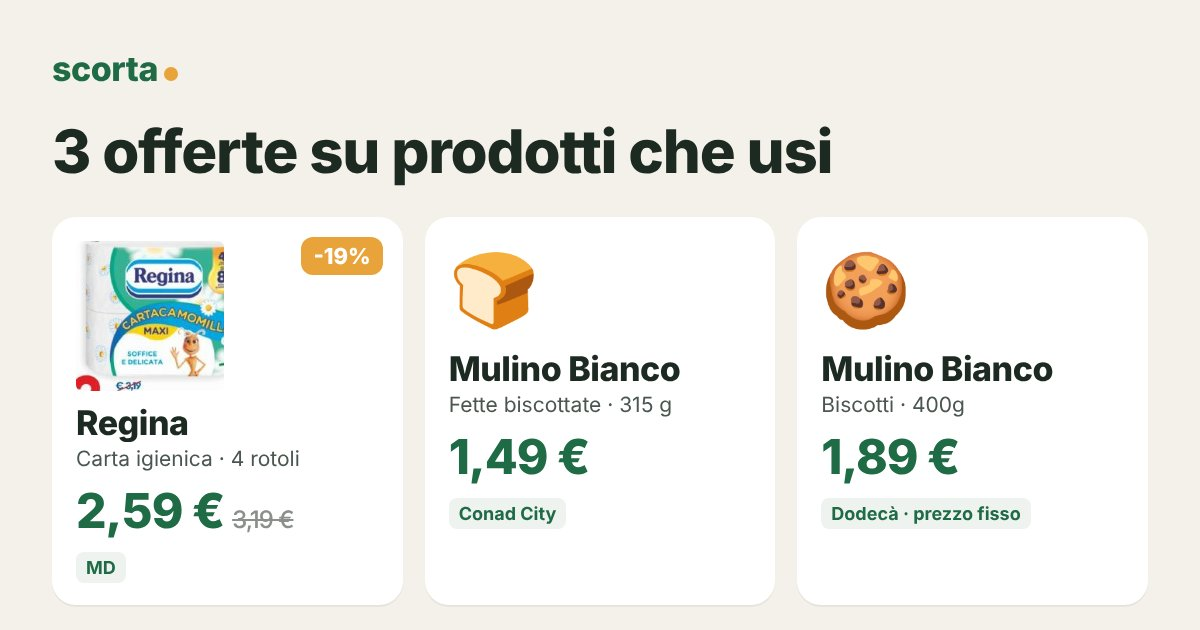
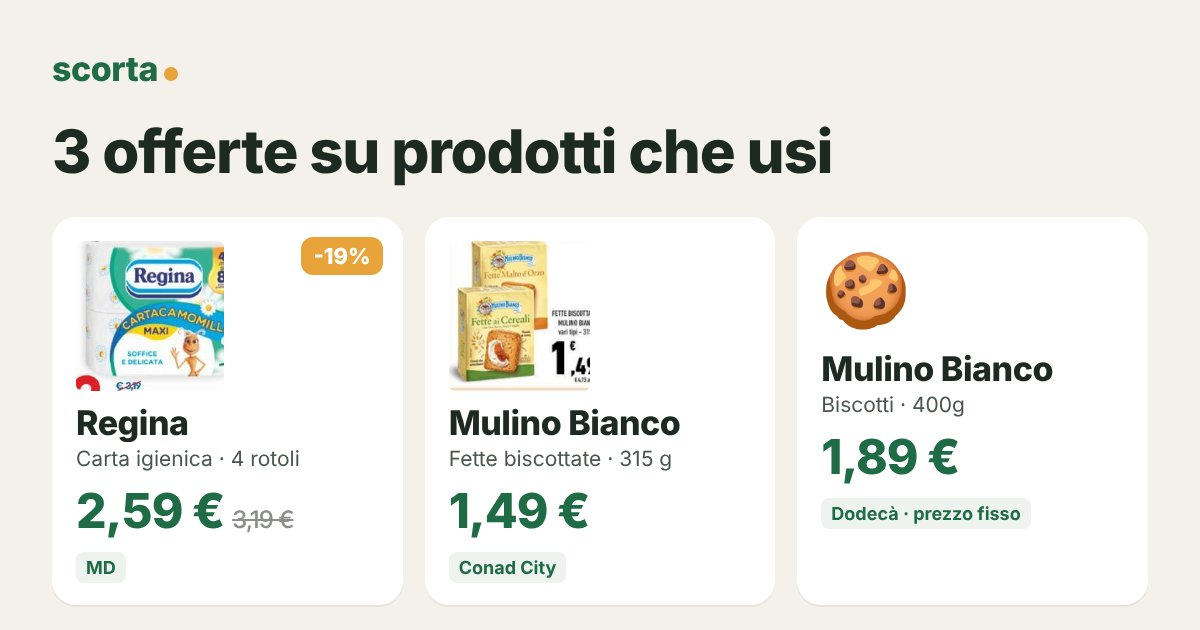
Pagine offerte 2026-11-11
Claude-Session: https://claude.ai/code/session_012BnByD7nnfoHswjF7TKs2L

Changed region(s): [[0.37, 0.3619, 0.5858, 0.8444], [0.37, 0.8746, 0.4625, 0.9349]]

diff --git a/o/95af054a/index.html b/o/95af054a/index.html
@@ -6,4 +6,4 @@
 <style>body{margin:0;font-family:-apple-system,system-ui,sans-serif;background:#F4F1EA;color:#1d2a22}main{max-width:560px;margin:auto;padding:16px}img{width:100%;border-radius:14px}
 ul{list-style:none;padding:0}li{display:flex;gap:10px;align-items:center;background:#fff;border-radius:12px;padding:10px 12px;margin:8px 0}.ic{font-size:26px}.th{width:44px;height:44px;object-fit:contain;background:#fff}li div:nth-child(2){flex:1}small{color:#6b746e}.pr{text-align:right;white-space:nowrap}s{color:#8a8f8b;font-size:13px}
 .btn{display:block;text-align:center;background:#1f6b45;color:#fff;font-weight:700;font-size:18px;padding:16px;border-radius:14px;text-decoration:none;margin:18px 0}.map{display:block;color:#1f6b45;margin:6px 0;text-decoration:none}</style></head>
-<body><main><img src="card.jpg" alt=""><a class="btn" href="https://tally.so/r/OQQV7k?f=F018&amp;a=A299,A300,A301,A302,A303,A304,A305,A306">✅ Segna cosa hai comprato</a><ul><li><img class=th src=../../img/deco_74M07931P409_27.jpg><div><b>Alce Nero legumi bio vari tipi 300 g</b><br><small>Decò Supermercato · scade domani</small></div><div class="pr"><b>1,89 €</b></div></li><li><img class=th src=../../img/deco_74M07931P415_301.jpg><div><b>Bonduelle piselli extra fini 370 g</b><br><small>Decò Supermercato · scade domani</small></div><div class="pr"><b>1,10 €</b></div></li><li><span class=ic>🧽</span><div><b>Ace superfici 1 lt, vari profumi</b><br><small>Decò Supermercato · scade domani</small></div><div class="pr"><b>2,39 €</b></div></li><li><img class=th src=../../img/5be83ee903.jpg><div><b>Mutti polpa di pomodoro 3x300 g</b><br><small>Lidl · scade oggi</small></div><div class="pr"><b>1,35 €</b></div></li><li><span class=ic>🧻</span><div><b>Tenderly Kilometrica carta igienica 2 veli 12 rotoli</b><br><small>Lidl · scade oggi</small></div><div class="pr"><b>4,49 €</b></div></li><li><span class=ic>🧴</span><div><b>Palmolive bagnoschiuma e doccia 2x600 ml, vari profumi</b><br><small>Lidl · scade oggi</small></div><div class="pr"><b>2,89 €</b></div></li><li><span class=ic>🫘</span><div><b>Conad Verso Natura legumi biologici in vetro 340 g</b><br><small>Conad Superstore · fino al 15/11</small></div><div class="pr"><b>0,99 €</b></div></li><li><img class=th src=../../img/conad_V010_p13_miele.jpg><div><b>Miele legumi scottati al vapore vari tipi 360 g</b><br><small>Conad Superstore · fino al 31/12</small></div><div class="pr"><b>0,69 €</b></div></li></ul><a class="map" href="https://www.google.com/maps/search/?api=1&query=Dec%C3%B2%20Supermercato%20Via%20Cataste%2C%2040%20Giugliano%20in%20Campania">📍 Decò Supermercato · Via Cataste, 40, Giugliano in Campania</a><a class="map" href="https://www.google.com/maps/search/?api=1&query=Lidl%20Via%20Giugliano%20Mugnano%2C%20137%20Villaricca">📍 Lidl · Via Giugliano Mugnano, 137, Villaricca</a><a class="map" href="https://www.google.com/maps/search/?api=1&query=Conad%20Superstore%20Via%20Pietro%20Nenni%2054%20Mugnano%20di%20Napoli">📍 Conad Superstore · Via Pietro Nenni 54, Mugnano di Napoli</a><p><small>Prezzi e scadenze dai volantini delle insegne. Rispondi STOP su WhatsApp per non ricevere più avvisi.</small></p></main></body></html>
+<body><main><img src="card.jpg" alt=""><a class="btn" href="https://tally.so/r/OQQV7k?f=F018&amp;a=A299,A300,A301,A302,A303,A304,A305,A306">✅ Segna cosa hai comprato</a><ul><li><img class=th src=../../img/deco_74M07931P409_27.jpg><div><b>Alce Nero legumi bio vari tipi 300 g</b><br><small>Decò Supermercato · scade domani</small></div><div class="pr"><b>1,89 €</b></div></li><li><img class=th src=../../img/deco_74M07931P415_301.jpg><div><b>Bonduelle piselli extra fini 370 g</b><br><small>Decò Supermercato · scade domani</small></div><div class="pr"><b>1,10 €</b></div></li><li><span class=ic>🧽</span><div><b>Ace superfici 1 lt, vari profumi</b><br><small>Decò Supermercato · scade domani</small></div><div class="pr"><b>2,39 €</b></div></li><li><img class=th src=../../img/5be83ee903.jpg><div><b>Mutti polpa di pomodoro 3x300 g</b><br><small>Lidl · scade oggi</small></div><div class="pr"><b>1,35 €</b></div></li><li><img class=th src=../../img/eea5554dd5.jpg><div><b>Tenderly Kilometrica carta igienica 2 veli 12 rotoli</b><br><small>Lidl · scade oggi</small></div><div class="pr"><b>4,49 €</b></div></li><li><img class=th src=../../img/65bcec5986.jpg><div><b>Palmolive bagnoschiuma e doccia 2x600 ml, vari profumi</b><br><small>Lidl · scade oggi</small></div><div class="pr"><b>2,89 €</b></div></li><li><span class=ic>🫘</span><div><b>Conad Verso Natura legumi biologici in vetro 340 g</b><br><small>Conad Superstore · fino al 15/11</small></div><div class="pr"><b>0,99 €</b></div></li><li><img class=th src=../../img/conad_V010_p13_miele.jpg><div><b>Miele legumi scottati al vapore vari tipi 360 g</b><br><small>Conad Superstore · fino al 31/12</small></div><div class="pr"><b>0,69 €</b></div></li></ul><a class="map" href="https://www.google.com/maps/search/?api=1&query=Dec%C3%B2%20Supermercato%20Via%20Cataste%2C%2040%20Giugliano%20in%20Campania">📍 Decò Supermercato · Via Cataste, 40, Giugliano in Campania</a><a class="map" href="https://www.google.com/maps/search/?api=1&query=Lidl%20Via%20Giugliano%20Mugnano%2C%20137%20Villaricca">📍 Lidl · Via Giugliano Mugnano, 137, Villaricca</a><a class="map" href="https://www.google.com/maps/search/?api=1&query=Conad%20Superstore%20Via%20Pietro%20Nenni%2054%20Mugnano%20di%20Napoli">📍 Conad Superstore · Via Pietro Nenni 54, Mugnano di Napoli</a><p><small>Prezzi e scadenze dai volantini delle insegne. Rispondi STOP su WhatsApp per non ricevere più avvisi.</small></p></main></body></html>

diff --git a/o/79486f72/index.html b/o/79486f72/index.html
@@ -6,4 +6,4 @@
 <style>body{margin:0;font-family:-apple-system,system-ui,sans-serif;background:#F4F1EA;color:#1d2a22}main{max-width:560px;margin:auto;padding:16px}img{width:100%;border-radius:14px}
 ul{list-style:none;padding:0}li{display:flex;gap:10px;align-items:center;background:#fff;border-radius:12px;padding:10px 12px;margin:8px 0}.ic{font-size:26px}.th{width:44px;height:44px;object-fit:contain;background:#fff}li div:nth-child(2){flex:1}small{color:#6b746e}.pr{text-align:right;white-space:nowrap}s{color:#8a8f8b;font-size:13px}
 .btn{display:block;text-align:center;background:#1f6b45;color:#fff;font-weight:700;font-size:18px;padding:16px;border-radius:14px;text-decoration:none;margin:18px 0}.map{display:block;color:#1f6b45;margin:6px 0;text-decoration:none}</style></head>
-<body><main><img src="card.jpg" alt=""><a class="btn" href="https://tally.so/r/OQQV7k?f=F011&amp;a=A277,A278,A279,A280,A281,A282,A283,A284">✅ Segna cosa hai comprato</a><ul><li><img class=th src=../../img/6fd54262f0.jpg><div><b>Vivo Meglio bevanda vegetale di soia 1 lt</b><br><small>MD · fino al 15/11</small></div><div class="pr"><s>0,99 €</s> <b>0,79 €</b></div></li><li><span class=ic>❄</span><div><b>Le Specialità di Beppe medaglioni di merluzzo 720 g</b><br><small>MD · fino al 15/11</small></div><div class="pr"><s>5,89 €</s> <b>4,49 €</b></div></li><li><span class=ic>🧻</span><div><b>Fior di Carta carta igienica natalizia Xmas 4 rotoli 3 veli</b><br><small>MD · fino al 15/11</small></div><div class="pr"><s>2,55 €</s> <b>1,79 €</b></div></li><li><img class=th src=../../img/be528fc53d.jpg><div><b>Kimbo cialde caffè espresso macinato fresco 150 pz</b><br><small>Conad Superstore · fino al 14/11</small></div><div class="pr"><s>25,19 €</s> <b>16,90 €</b></div></li><li><img class=th src=../../img/8517bd19ec.jpg><div><b>Gran Pavesi cracker salati/non salati pacco doppio 1,120 kg</b><br><small>Conad Superstore · fino al 14/11</small></div><div class="pr"><s>3,90 €</s> <b>2,49 €</b></div></li><li><img class=th src=../../img/04415179e3.jpg><div><b>Findus filetti gratinati vari tipi 380 g</b><br><small>Conad Superstore · fino al 14/11</small></div><div class="pr"><s>5,49 €</s> <b>3,19 €</b></div></li><li><span class=ic>🫘</span><div><b>Conad Verso Natura legumi biologici in vetro 340 g</b><br><small>Conad Superstore · fino al 15/11</small></div><div class="pr"><b>0,99 €</b></div></li><li><img class=th src=../../img/conad_V010_p13_miele.jpg><div><b>Miele legumi scottati al vapore vari tipi 360 g</b><br><small>Conad Superstore · fino al 31/12</small></div><div class="pr"><b>0,69 €</b></div></li></ul><a class="map" href="https://www.google.com/maps/search/?api=1&query=MD%20Via%20Diocleziano%2C%20257%20Napoli">📍 MD · Via Diocleziano, 257, Napoli</a><a class="map" href="https://www.google.com/maps/search/?api=1&query=Conad%20Superstore%20Via%20Cintia-%20Angolo%20Via%20Marcaurelio%20Snc%20Napoli">📍 Conad Superstore · Via Cintia- Angolo Via Marcaurelio Snc, Napoli</a><p><small>Prezzi e scadenze dai volantini delle insegne. Rispondi STOP su WhatsApp per non ricevere più avvisi.</small></p></main></body></html>
+<body><main><img src="card.jpg" alt=""><a class="btn" href="https://tally.so/r/OQQV7k?f=F011&amp;a=A277,A278,A279,A280,A281,A282,A283,A284">✅ Segna cosa hai comprato</a><ul><li><img class=th src=../../img/6fd54262f0.jpg><div><b>Vivo Meglio bevanda vegetale di soia 1 lt</b><br><small>MD · fino al 15/11</small></div><div class="pr"><s>0,99 €</s> <b>0,79 €</b></div></li><li><img class=th src=../../img/a2f76f8251.jpg><div><b>Le Specialità di Beppe medaglioni di merluzzo 720 g</b><br><small>MD · fino al 15/11</small></div><div class="pr"><s>5,89 €</s> <b>4,49 €</b></div></li><li><img class=th src=../../img/d5a8b737f9.jpg><div><b>Fior di Carta carta igienica natalizia Xmas 4 rotoli 3 veli</b><br><small>MD · fino al 15/11</small></div><div class="pr"><s>2,55 €</s> <b>1,79 €</b></div></li><li><img class=th src=../../img/be528fc53d.jpg><div><b>Kimbo cialde caffè espresso macinato fresco 150 pz</b><br><small>Conad Superstore · fino al 14/11</small></div><div class="pr"><s>25,19 €</s> <b>16,90 €</b></div></li><li><img class=th src=../../img/8517bd19ec.jpg><div><b>Gran Pavesi cracker salati/non salati pacco doppio 1,120 kg</b><br><small>Conad Superstore · fino al 14/11</small></div><div class="pr"><s>3,90 €</s> <b>2,49 €</b></div></li><li><img class=th src=../../img/04415179e3.jpg><div><b>Findus filetti gratinati vari tipi 380 g</b><br><small>Conad Superstore · fino al 14/11</small></div><div class="pr"><s>5,49 €</s> <b>3,19 €</b></div></li><li><span class=ic>🫘</span><div><b>Conad Verso Natura legumi biologici in vetro 340 g</b><br><small>Conad Superstore · fino al 15/11</small></div><div class="pr"><b>0,99 €</b></div></li><li><img class=th src=../../img/conad_V010_p13_miele.jpg><div><b>Miele legumi scottati al vapore vari tipi 360 g</b><br><small>Conad Superstore · fino al 31/12</small></div><div class="pr"><b>0,69 €</b></div></li></ul><a class="map" href="https://www.google.com/maps/search/?api=1&query=MD%20Via%20Diocleziano%2C%20257%20Napoli">📍 MD · Via Diocleziano, 257, Napoli</a><a class="map" href="https://www.google.com/maps/search/?api=1&query=Conad%20Superstore%20Via%20Cintia-%20Angolo%20Via%20Marcaurelio%20Snc%20Napoli">📍 Conad Superstore · Via Cintia- Angolo Via Marcaurelio Snc, Napoli</a><p><small>Prezzi e scadenze dai volantini delle insegne. Rispondi STOP su WhatsApp per non ricevere più avvisi.</small></p></main></body></html>

diff --git a/o/2e1599d2/index.html b/o/2e1599d2/index.html
@@ -6,4 +6,4 @@
 <style>body{margin:0;font-family:-apple-system,system-ui,sans-serif;background:#F4F1EA;color:#1d2a22}main{max-width:560px;margin:auto;padding:16px}img{width:100%;border-radius:14px}
 ul{list-style:none;padding:0}li{display:flex;gap:10px;align-items:center;background:#fff;border-radius:12px;padding:10px 12px;margin:8px 0}.ic{font-size:26px}.th{width:44px;height:44px;object-fit:contain;background:#fff}li div:nth-child(2){flex:1}small{color:#6b746e}.pr{text-align:right;white-space:nowrap}s{color:#8a8f8b;font-size:13px}
 .btn{display:block;text-align:center;background:#1f6b45;color:#fff;font-weight:700;font-size:18px;padding:16px;border-radius:14px;text-decoration:none;margin:18px 0}.map{display:block;color:#1f6b45;margin:6px 0;text-decoration:none}</style></head>
-<body><main><img src="card.jpg" alt=""><a class="btn" href="https://tally.so/r/OQQV7k?f=F020&amp;a=A307,A308,A309,A310,A311,A312,A313">✅ Segna cosa hai comprato</a><ul><li><img class=th src=../../img/L027.jpg><div><b>Mutti passata di pomodoro 700 g</b><br><small>Decò Supermercato · scade domani</small></div><div class="pr"><b>1,00 €</b></div></li><li><img class=th src=../../img/deco_74M07931P222_301.jpg><div><b>Mulino Bianco biscotti Pan di Stelle / Ritornelli / Abbracci 700 g</b><br><small>Decò Supermercato · scade domani</small></div><div class="pr"><b>3,49 €</b></div></li><li><img class=th src=../../img/deco_74M07931P397_301.jpg><div><b>Granarolo Bimbi latte crescita 3 UHT 2x500 ml</b><br><small>Decò Supermercato · scade domani</small></div><div class="pr"><b>1,89 €</b></div></li><li><span class=ic>🍞</span><div><b>Mulino Bianco fette biscottate vari tipi 315 g</b><br><small>Conad City · fino al 15/11</small></div><div class="pr"><b>1,49 €</b></div></li><li><span class=ic>🫧</span><div><b>Chanteclair detersivo liquido lavatrice vari tipi 38 lavaggi</b><br><small>Conad City · fino al 15/11</small></div><div class="pr"><b>3,49 €</b></div></li><li><img class=th src=../../img/9de6d730c6.jpg><div><b>Regina asciugatutto 2 rotoli, vari profumi</b><br><small>Conad City · fino al 15/11</small></div><div class="pr"><b>2,59 €</b></div></li><li><img class=th src=../../img/deco_74M07931P239_301.jpg><div><b>Valgrì passata di pomodorino del Piennolo DOP 350 g</b><br><small>Decò Maxistore · scade domani</small></div><div class="pr"><b>1,59 €</b></div></li></ul><a class="map" href="https://www.google.com/maps/search/?api=1&query=Dec%C3%B2%20Supermercato%20Via%20Pomponio%20Gaurico%2C%2029%20Napoli">📍 Decò Supermercato · Via Pomponio Gaurico, 29, Napoli</a><a class="map" href="https://www.google.com/maps/search/?api=1&query=Conad%20City%202%C2%AA%20Traversa%20Divisione%20Siena%203/5/7%20Napoli">📍 Conad City · 2ª Traversa Divisione Siena 3/5/7, Napoli</a><a class="map" href="https://www.google.com/maps/search/?api=1&query=Dec%C3%B2%20Maxistore%20Viale%20Giochi%20del%20Mediterraneo%20Napoli">📍 Decò Maxistore · Viale Giochi del Mediterraneo, Napoli</a><p><small>Prezzi e scadenze dai volantini delle insegne. Rispondi STOP su WhatsApp per non ricevere più avvisi.</small></p></main></body></html>
+<body><main><img src="card.jpg" alt=""><a class="btn" href="https://tally.so/r/OQQV7k?f=F020&amp;a=A307,A308,A309,A310,A311,A312,A313">✅ Segna cosa hai comprato</a><ul><li><img class=th src=../../img/L027.jpg><div><b>Mutti passata di pomodoro 700 g</b><br><small>Decò Supermercato · scade domani</small></div><div class="pr"><b>1,00 €</b></div></li><li><img class=th src=../../img/deco_74M07931P222_301.jpg><div><b>Mulino Bianco biscotti Pan di Stelle / Ritornelli / Abbracci 700 g</b><br><small>Decò Supermercato · scade domani</small></div><div class="pr"><b>3,49 €</b></div></li><li><img class=th src=../../img/deco_74M07931P397_301.jpg><div><b>Granarolo Bimbi latte crescita 3 UHT 2x500 ml</b><br><small>Decò Supermercato · scade domani</small></div><div class="pr"><b>1,89 €</b></div></li><li><img class=th src=../../img/793da9189b.jpg><div><b>Mulino Bianco fette biscottate vari tipi 315 g</b><br><small>Conad City · fino al 15/11</small></div><div class="pr"><b>1,49 €</b></div></li><li><img class=th src=../../img/abc01f7dd2.jpg><div><b>Chanteclair detersivo liquido lavatrice vari tipi 38 lavaggi</b><br><small>Conad City · fino al 15/11</small></div><div class="pr"><b>3,49 €</b></div></li><li><img class=th src=../../img/9de6d730c6.jpg><div><b>Regina asciugatutto 2 rotoli, vari profumi</b><br><small>Conad City · fino al 15/11</small></div><div class="pr"><b>2,59 €</b></div></li><li><img class=th src=../../img/deco_74M07931P239_301.jpg><div><b>Valgrì passata di pomodorino del Piennolo DOP 350 g</b><br><small>Decò Maxistore · scade domani</small></div><div class="pr"><b>1,59 €</b></div></li></ul><a class="map" href="https://www.google.com/maps/search/?api=1&query=Dec%C3%B2%20Supermercato%20Via%20Pomponio%20Gaurico%2C%2029%20Napoli">📍 Decò Supermercato · Via Pomponio Gaurico, 29, Napoli</a><a class="map" href="https://www.google.com/maps/search/?api=1&query=Conad%20City%202%C2%AA%20Traversa%20Divisione%20Siena%203/5/7%20Napoli">📍 Conad City · 2ª Traversa Divisione Siena 3/5/7, Napoli</a><a class="map" href="https://www.google.com/maps/search/?api=1&query=Dec%C3%B2%20Maxistore%20Viale%20Giochi%20del%20Mediterraneo%20Napoli">📍 Decò Maxistore · Viale Giochi del Mediterraneo, Napoli</a><p><small>Prezzi e scadenze dai volantini delle insegne. Rispondi STOP su WhatsApp per non ricevere più avvisi.</small></p></main></body></html>

diff --git a/o/25f4bd59/index.html b/o/25f4bd59/index.html
@@ -6,4 +6,4 @@
 <style>body{margin:0;font-family:-apple-system,system-ui,sans-serif;background:#F4F1EA;color:#1d2a22}main{max-width:560px;margin:auto;padding:16px}img{width:100%;border-radius:14px}
 ul{list-style:none;padding:0}li{display:flex;gap:10px;align-items:center;background:#fff;border-radius:12px;padding:10px 12px;margin:8px 0}.ic{font-size:26px}.th{width:44px;height:44px;object-fit:contain;background:#fff}li div:nth-child(2){flex:1}small{color:#6b746e}.pr{text-align:right;white-space:nowrap}s{color:#8a8f8b;font-size:13px}
 .btn{display:block;text-align:center;background:#1f6b45;color:#fff;font-weight:700;font-size:18px;padding:16px;border-radius:14px;text-decoration:none;margin:18px 0}.map{display:block;color:#1f6b45;margin:6px 0;text-decoration:none}</style></head>
-<body><main><img src="card.jpg" alt=""><a class="btn" href="https://tally.so/r/OQQV7k?f=F020&amp;a=A169,A170,A171,A172,A173,A174,A175,A176">✅ Segna cosa hai comprato</a><ul><li><img class=th src=../../img/deco_74M07931P021_301.jpg><div><b>Mutti polpa fine di pomodoro 3x400 g</b><br><small>Decò Market · fino al 12/11</small></div><div class="pr"><b>1,99 €</b></div></li><li><img class=th src=../../img/deco_74M07931P254_301.jpg><div><b>Findus bastoncini 24+6 gratis 750 g</b><br><small>Decò Market · fino al 12/11</small></div><div class="pr"><b>6,19 €</b></div></li><li><img class=th src=../../img/deco_74M07931P252_301.jpg><div><b>Findus filetti di platessa del Pacifico 250 g</b><br><small>Decò Market · fino al 12/11</small></div><div class="pr"><b>5,69 €</b></div></li><li><img class=th src=../../img/deco_74M07931P326_301.jpg><div><b>Scottex Tuttofare carta da cucina 2 rotoli</b><br><small>Decò Market · fino al 12/11</small></div><div class="pr"><b>1,99 €</b></div></li><li><img class=th src=../../img/deco_74M07931P038_301.jpg><div><b>Mentadent dentifricio 2x75 ml</b><br><small>Decò Market · fino al 12/11</small></div><div class="pr"><b>2,69 €</b></div></li><li><img class=th src=../../img/deco_74M07885P432_301.jpg><div><b>Garofalo pasta di semola IGP formati speciali 500 g</b><br><small>Decò Market · fino al 23/11</small></div><div class="pr"><b>1,15 €</b></div></li><li><img class=th src=../../img/11a71a0aa0.jpg><div><b>La Molisana pasta di semola formati normali 500 g</b><br><small>Conad City · scade domani</small></div><div class="pr"><b>0,79 €</b></div></li><li><span class=ic>🍪</span><div><b>Mulino Bianco biscotti Pan di Stelle/Abbracci/Ritornelli 700 g o Nascondini 600 g</b><br><small>Conad City · scade domani</small></div><div class="pr"><b>2,79 €</b></div></li></ul><a class="map" href="https://www.google.com/maps/search/?api=1&query=Dec%C3%B2%20Market%20Discesa%20Coroglio%2C%2081a%20Napoli">📍 Decò Market · Discesa Coroglio, 81a, Napoli</a><a class="map" href="https://www.google.com/maps/search/?api=1&query=Conad%20City%202%C2%AA%20Traversa%20Divisione%20Siena%203/5/7%20Napoli">📍 Conad City · 2ª Traversa Divisione Siena 3/5/7, Napoli</a><p><small>Prezzi e scadenze dai volantini delle insegne. Rispondi STOP su WhatsApp per non ricevere più avvisi.</small></p></main></body></html>
+<body><main><img src="card.jpg" alt=""><a class="btn" href="https://tally.so/r/OQQV7k?f=F020&amp;a=A169,A170,A171,A172,A173,A174,A175,A176">✅ Segna cosa hai comprato</a><ul><li><img class=th src=../../img/deco_74M07931P021_301.jpg><div><b>Mutti polpa fine di pomodoro 3x400 g</b><br><small>Decò Market · fino al 12/11</small></div><div class="pr"><b>1,99 €</b></div></li><li><img class=th src=../../img/deco_74M07931P254_301.jpg><div><b>Findus bastoncini 24+6 gratis 750 g</b><br><small>Decò Market · fino al 12/11</small></div><div class="pr"><b>6,19 €</b></div></li><li><img class=th src=../../img/deco_74M07931P252_301.jpg><div><b>Findus filetti di platessa del Pacifico 250 g</b><br><small>Decò Market · fino al 12/11</small></div><div class="pr"><b>5,69 €</b></div></li><li><img class=th src=../../img/deco_74M07931P326_301.jpg><div><b>Scottex Tuttofare carta da cucina 2 rotoli</b><br><small>Decò Market · fino al 12/11</small></div><div class="pr"><b>1,99 €</b></div></li><li><img class=th src=../../img/deco_74M07931P038_301.jpg><div><b>Mentadent dentifricio 2x75 ml</b><br><small>Decò Market · fino al 12/11</small></div><div class="pr"><b>2,69 €</b></div></li><li><img class=th src=../../img/deco_74M07885P432_301.jpg><div><b>Garofalo pasta di semola IGP formati speciali 500 g</b><br><small>Decò Market · fino al 23/11</small></div><div class="pr"><b>1,15 €</b></div></li><li><img class=th src=../../img/11a71a0aa0.jpg><div><b>La Molisana pasta di semola formati normali 500 g</b><br><small>Conad City · scade domani</small></div><div class="pr"><b>0,79 €</b></div></li><li><img class=th src=../../img/deco_74M07931P222_301.jpg><div><b>Mulino Bianco biscotti Pan di Stelle/Abbracci/Ritornelli 700 g o Nascondini 600 g</b><br><small>Conad City · scade domani</small></div><div class="pr"><b>2,79 €</b></div></li></ul><a class="map" href="https://www.google.com/maps/search/?api=1&query=Dec%C3%B2%20Market%20Discesa%20Coroglio%2C%2081a%20Napoli">📍 Decò Market · Discesa Coroglio, 81a, Napoli</a><a class="map" href="https://www.google.com/maps/search/?api=1&query=Conad%20City%202%C2%AA%20Traversa%20Divisione%20Siena%203/5/7%20Napoli">📍 Conad City · 2ª Traversa Divisione Siena 3/5/7, Napoli</a><p><small>Prezzi e scadenze dai volantini delle insegne. Rispondi STOP su WhatsApp per non ricevere più avvisi.</small></p></main></body></html>

diff --git a/o/0a9d926b/index.html b/o/0a9d926b/index.html
@@ -6,4 +6,4 @@
 <style>body{margin:0;font-family:-apple-system,system-ui,sans-serif;background:#F4F1EA;color:#1d2a22}main{max-width:560px;margin:auto;padding:16px}img{width:100%;border-radius:14px}
 ul{list-style:none;padding:0}li{display:flex;gap:10px;align-items:center;background:#fff;border-radius:12px;padding:10px 12px;margin:8px 0}.ic{font-size:26px}.th{width:44px;height:44px;object-fit:contain;background:#fff}li div:nth-child(2){flex:1}small{color:#6b746e}.pr{text-align:right;white-space:nowrap}s{color:#8a8f8b;font-size:13px}
 .btn{display:block;text-align:center;background:#1f6b45;color:#fff;font-weight:700;font-size:18px;padding:16px;border-radius:14px;text-decoration:none;margin:18px 0}.map{display:block;color:#1f6b45;margin:6px 0;text-decoration:none}</style></head>
-<body><main><img src="card.jpg" alt=""><a class="btn" href="https://tally.so/r/OQQV7k?f=F003&amp;a=A259,A260,A261,A262,A263,A264,A265,A266">✅ Segna cosa hai comprato</a><ul><li><span class=ic>🥛</span><div><b>Mulino Bianco Galletti Biscotti con Latte Fresco 100% Italiano 350g</b><br><small>Dodecà · prezzo fisso</small></div><div class="pr"><b>1,69 €</b></div></li><li><img class=th src=../../img/a83cc73ac4.jpg><div><b>Nutella 750 g</b><br><small>Conad Superstore · fino al 14/11</small></div><div class="pr"><s>6,49 €</s> <b>4,49 €</b></div></li><li><img class=th src=../../img/d935c2dc67.jpg><div><b>Findus minestrone tradizione 1 kg</b><br><small>Conad Superstore · fino al 14/11</small></div><div class="pr"><s>4,49 €</s> <b>2,79 €</b></div></li><li><span class=ic>🐟</span><div><b>Rio Mare tonno all&#x27;olio d&#x27;oliva 9x80 g</b><br><small>Lidl · scade oggi</small></div><div class="pr"><b>7,89 €</b></div></li><li><span class=ic>☕</span><div><b>Caffè Borbone capsule Miscela Decisa compatibili Nespresso 120 pz</b><br><small>Lidl · scade oggi</small></div><div class="pr"><b>14,99 €</b></div></li><li><span class=ic>🥤</span><div><b>Coca-Cola regular 4x1,75 lt</b><br><small>Lidl · scade oggi</small></div><div class="pr"><b>4,49 €</b></div></li><li><span class=ic>🧴</span><div><b>Pantene Pro-V shampoo 500 ml</b><br><small>Lidl · scade oggi</small></div><div class="pr"><b>3,25 €</b></div></li><li><img class=th src=../../img/f97caf7f67.jpg><div><b>Findus piselli novelli 1 kg</b><br><small>Lidl · scade oggi</small></div><div class="pr"><b>3,39 €</b></div></li></ul><a class="map" href="https://www.google.com/maps/search/?api=1&query=Dodec%C3%A0%20Via%20Sette%20Re%2C%2077%20Arzano">📍 Dodecà · Via Sette Re, 77, Arzano</a><a class="map" href="https://www.google.com/maps/search/?api=1&query=Conad%20Superstore%20Via%20Barraccone%20Snc%20Sant%27Arpino">📍 Conad Superstore · Via Barraccone Snc, Sant&#x27;Arpino</a><a class="map" href="https://www.google.com/maps/search/?api=1&query=Lidl%20Via%20Paolo%20Borsellino%2C%20snc%20Casandrino">📍 Lidl · Via Paolo Borsellino, snc, Casandrino</a><p><small>Prezzi e scadenze dai volantini delle insegne. Rispondi STOP su WhatsApp per non ricevere più avvisi.</small></p></main></body></html>
+<body><main><img src="card.jpg" alt=""><a class="btn" href="https://tally.so/r/OQQV7k?f=F003&amp;a=A259,A260,A261,A262,A263,A264,A265,A266">✅ Segna cosa hai comprato</a><ul><li><span class=ic>🥛</span><div><b>Mulino Bianco Galletti Biscotti con Latte Fresco 100% Italiano 350g</b><br><small>Dodecà · prezzo fisso</small></div><div class="pr"><b>1,69 €</b></div></li><li><img class=th src=../../img/a83cc73ac4.jpg><div><b>Nutella 750 g</b><br><small>Conad Superstore · fino al 14/11</small></div><div class="pr"><s>6,49 €</s> <b>4,49 €</b></div></li><li><img class=th src=../../img/d935c2dc67.jpg><div><b>Findus minestrone tradizione 1 kg</b><br><small>Conad Superstore · fino al 14/11</small></div><div class="pr"><s>4,49 €</s> <b>2,79 €</b></div></li><li><img class=th src=../../img/3ac176b2b0.jpg><div><b>Rio Mare tonno all&#x27;olio d&#x27;oliva 9x80 g</b><br><small>Lidl · scade oggi</small></div><div class="pr"><b>7,89 €</b></div></li><li><img class=th src=../../img/7c8dcf4668.jpg><div><b>Caffè Borbone capsule Miscela Decisa compatibili Nespresso 120 pz</b><br><small>Lidl · scade oggi</small></div><div class="pr"><b>14,99 €</b></div></li><li><img class=th src=../../img/501043611d.jpg><div><b>Coca-Cola regular 4x1,75 lt</b><br><small>Lidl · scade oggi</small></div><div class="pr"><b>4,49 €</b></div></li><li><img class=th src=../../img/8b5fb9c687.jpg><div><b>Pantene Pro-V shampoo 500 ml</b><br><small>Lidl · scade oggi</small></div><div class="pr"><b>3,25 €</b></div></li><li><img class=th src=../../img/f97caf7f67.jpg><div><b>Findus piselli novelli 1 kg</b><br><small>Lidl · scade oggi</small></div><div class="pr"><b>3,39 €</b></div></li></ul><a class="map" href="https://www.google.com/maps/search/?api=1&query=Dodec%C3%A0%20Via%20Sette%20Re%2C%2077%20Arzano">📍 Dodecà · Via Sette Re, 77, Arzano</a><a class="map" href="https://www.google.com/maps/search/?api=1&query=Conad%20Superstore%20Via%20Barraccone%20Snc%20Sant%27Arpino">📍 Conad Superstore · Via Barraccone Snc, Sant&#x27;Arpino</a><a class="map" href="https://www.google.com/maps/search/?api=1&query=Lidl%20Via%20Paolo%20Borsellino%2C%20snc%20Casandrino">📍 Lidl · Via Paolo Borsellino, snc, Casandrino</a><p><small>Prezzi e scadenze dai volantini delle insegne. Rispondi STOP su WhatsApp per non ricevere più avvisi.</small></p></main></body></html>

diff --git a/o/9ef7e29e/index.html b/o/9ef7e29e/index.html
@@ -6,4 +6,4 @@
 <style>body{margin:0;font-family:-apple-system,system-ui,sans-serif;background:#F4F1EA;color:#1d2a22}main{max-width:560px;margin:auto;padding:16px}img{width:100%;border-radius:14px}
 ul{list-style:none;padding:0}li{display:flex;gap:10px;align-items:center;background:#fff;border-radius:12px;padding:10px 12px;margin:8px 0}.ic{font-size:26px}.th{width:44px;height:44px;object-fit:contain;background:#fff}li div:nth-child(2){flex:1}small{color:#6b746e}.pr{text-align:right;white-space:nowrap}s{color:#8a8f8b;font-size:13px}
 .btn{display:block;text-align:center;background:#1f6b45;color:#fff;font-weight:700;font-size:18px;padding:16px;border-radius:14px;text-decoration:none;margin:18px 0}.map{display:block;color:#1f6b45;margin:6px 0;text-decoration:none}</style></head>
-<body><main><img src="card.jpg" alt=""><a class="btn" href="https://tally.so/r/OQQV7k?f=F013&amp;a=A285,A286,A287,A288,A289,A290">✅ Segna cosa hai comprato</a><ul><li><img class=th src=../../img/deco_74M07931P348_301.jpg><div><b>Rio Mare tonno all&#x27;olio di oliva 4+2 gratis x 80 g</b><br><small>Decò Market · scade domani</small></div><div class="pr"><b>5,99 €</b></div></li><li><img class=th src=../../img/deco_74M07931P343_301.jpg><div><b>Decò bocconcini per gatti vari gusti 405 g</b><br><small>Decò Market · scade domani</small></div><div class="pr"><b>0,65 €</b></div></li><li><img class=th src=../../img/5fc8d9972a.jpg><div><b>Monini olio extravergine di oliva classico/cucina delicata 1 lt</b><br><small>Conad · fino al 14/11</small></div><div class="pr"><s>8,49 €</s> <b>4,49 €</b></div></li><li><img class=th src=../../img/a83cc73ac4.jpg><div><b>Nutella 750 g</b><br><small>Conad · fino al 14/11</small></div><div class="pr"><s>6,49 €</s> <b>4,49 €</b></div></li><li><img class=th src=../../img/conad_V010_p17_divella.jpg><div><b>Divella pasta di semola formati normali 500 g</b><br><small>Conad City · fino al 15/11</small></div><div class="pr"><b>0,49 €</b></div></li><li><span class=ic>🫧</span><div><b>Conad ammorbidente concentrato vari tipi 50 lavaggi</b><br><small>Conad City · fino al 15/11</small></div><div class="pr"><b>1,95 €</b></div></li></ul><a class="map" href="https://www.google.com/maps/search/?api=1&query=Dec%C3%B2%20Market%20Via%20Vincenzo%20Arangio%20Ruiz%2C%2065%20Napoli">📍 Decò Market · Via Vincenzo Arangio Ruiz, 65, Napoli</a><a class="map" href="https://www.google.com/maps/search/?api=1&query=Conad%20Via%20Aniello%20Falcone%20380%20Napoli">📍 Conad · Via Aniello Falcone 380, Napoli</a><a class="map" href="https://www.google.com/maps/search/?api=1&query=Conad%20City%20Largo%20Sermoneta%2022/A%20Napoli">📍 Conad City · Largo Sermoneta 22/A, Napoli</a><p><small>Prezzi e scadenze dai volantini delle insegne. Rispondi STOP su WhatsApp per non ricevere più avvisi.</small></p></main></body></html>
+<body><main><img src="card.jpg" alt=""><a class="btn" href="https://tally.so/r/OQQV7k?f=F013&amp;a=A285,A286,A287,A288,A289,A290">✅ Segna cosa hai comprato</a><ul><li><img class=th src=../../img/deco_74M07931P348_301.jpg><div><b>Rio Mare tonno all&#x27;olio di oliva 4+2 gratis x 80 g</b><br><small>Decò Market · scade domani</small></div><div class="pr"><b>5,99 €</b></div></li><li><img class=th src=../../img/deco_74M07931P343_301.jpg><div><b>Decò bocconcini per gatti vari gusti 405 g</b><br><small>Decò Market · scade domani</small></div><div class="pr"><b>0,65 €</b></div></li><li><img class=th src=../../img/5fc8d9972a.jpg><div><b>Monini olio extravergine di oliva classico/cucina delicata 1 lt</b><br><small>Conad · fino al 14/11</small></div><div class="pr"><s>8,49 €</s> <b>4,49 €</b></div></li><li><img class=th src=../../img/a83cc73ac4.jpg><div><b>Nutella 750 g</b><br><small>Conad · fino al 14/11</small></div><div class="pr"><s>6,49 €</s> <b>4,49 €</b></div></li><li><img class=th src=../../img/conad_V010_p17_divella.jpg><div><b>Divella pasta di semola formati normali 500 g</b><br><small>Conad City · fino al 15/11</small></div><div class="pr"><b>0,49 €</b></div></li><li><img class=th src=../../img/de1b2371f7.jpg><div><b>Conad ammorbidente concentrato vari tipi 50 lavaggi</b><br><small>Conad City · fino al 15/11</small></div><div class="pr"><b>1,95 €</b></div></li></ul><a class="map" href="https://www.google.com/maps/search/?api=1&query=Dec%C3%B2%20Market%20Via%20Vincenzo%20Arangio%20Ruiz%2C%2065%20Napoli">📍 Decò Market · Via Vincenzo Arangio Ruiz, 65, Napoli</a><a class="map" href="https://www.google.com/maps/search/?api=1&query=Conad%20Via%20Aniello%20Falcone%20380%20Napoli">📍 Conad · Via Aniello Falcone 380, Napoli</a><a class="map" href="https://www.google.com/maps/search/?api=1&query=Conad%20City%20Largo%20Sermoneta%2022/A%20Napoli">📍 Conad City · Largo Sermoneta 22/A, Napoli</a><p><small>Prezzi e scadenze dai volantini delle insegne. Rispondi STOP su WhatsApp per non ricevere più avvisi.</small></p></main></body></html>

diff --git a/o/48b97e72/index.html b/o/48b97e72/index.html
@@ -6,4 +6,4 @@
 <style>body{margin:0;font-family:-apple-system,system-ui,sans-serif;background:#F4F1EA;color:#1d2a22}main{max-width:560px;margin:auto;padding:16px}img{width:100%;border-radius:14px}
 ul{list-style:none;padding:0}li{display:flex;gap:10px;align-items:center;background:#fff;border-radius:12px;padding:10px 12px;margin:8px 0}.ic{font-size:26px}.th{width:44px;height:44px;object-fit:contain;background:#fff}li div:nth-child(2){flex:1}small{color:#6b746e}.pr{text-align:right;white-space:nowrap}s{color:#8a8f8b;font-size:13px}
 .btn{display:block;text-align:center;background:#1f6b45;color:#fff;font-weight:700;font-size:18px;padding:16px;border-radius:14px;text-decoration:none;margin:18px 0}.map{display:block;color:#1f6b45;margin:6px 0;text-decoration:none}</style></head>
-<body><main><img src="card.jpg" alt=""><a class="btn" href="https://tally.so/r/OQQV7k?f=F015&amp;a=A292,A293,A294,A295">✅ Segna cosa hai comprato</a><ul><li><img class=th src=../../img/7287ce7eec.jpg><div><b>Cirio passata verace 700 g</b><br><small>Conad · fino al 14/11</small></div><div class="pr"><s>1,39 €</s> <b>0,79 €</b></div></li><li><img class=th src=../../img/5be83ee903.jpg><div><b>Mutti polpa di datterini 3x300 g</b><br><small>Spazio Conad · scade domani</small></div><div class="pr"><b>2,29 €</b></div></li><li><span class=ic>🍝</span><div><b>Lettere dall&#x27;Italia pasta di Gragnano IGP trafilata al bronzo 500 g</b><br><small>MD · fino al 15/11</small></div><div class="pr"><s>0,99 €</s> <b>0,75 €</b></div></li><li><span class=ic>🐟</span><div><b>Frontera tonno all&#x27;olio di semi di girasole 620 g</b><br><small>MD · fino al 15/11</small></div><div class="pr"><s>5,79 €</s> <b>4,49 €</b></div></li></ul><a class="map" href="https://www.google.com/maps/search/?api=1&query=Conad%20Via%20Amendola%20Angolo%20Via%20Cesa%20Snc%20Parete">📍 Conad · Via Amendola Angolo Via Cesa Snc, Parete</a><a class="map" href="https://www.google.com/maps/search/?api=1&query=Spazio%20Conad%20S.P.%20Trentola%20Parete%20Snc%20Trentola%20Ducenta">📍 Spazio Conad · S.P. Trentola Parete Snc, Trentola Ducenta</a><a class="map" href="https://www.google.com/maps/search/?api=1&query=MD%20VIA%20SALVO%20D%27ACQUISTO%20San%20Marcellino">📍 MD · VIA SALVO D&#x27;ACQUISTO, San Marcellino</a><p><small>Prezzi e scadenze dai volantini delle insegne. Rispondi STOP su WhatsApp per non ricevere più avvisi.</small></p></main></body></html>
+<body><main><img src="card.jpg" alt=""><a class="btn" href="https://tally.so/r/OQQV7k?f=F015&amp;a=A292,A293,A294,A295">✅ Segna cosa hai comprato</a><ul><li><img class=th src=../../img/7287ce7eec.jpg><div><b>Cirio passata verace 700 g</b><br><small>Conad · fino al 14/11</small></div><div class="pr"><s>1,39 €</s> <b>0,79 €</b></div></li><li><img class=th src=../../img/5be83ee903.jpg><div><b>Mutti polpa di datterini 3x300 g</b><br><small>Spazio Conad · scade domani</small></div><div class="pr"><b>2,29 €</b></div></li><li><img class=th src=../../img/b13c5263ae.jpg><div><b>Lettere dall&#x27;Italia pasta di Gragnano IGP trafilata al bronzo 500 g</b><br><small>MD · fino al 15/11</small></div><div class="pr"><s>0,99 €</s> <b>0,75 €</b></div></li><li><img class=th src=../../img/f8cb96ee3a.jpg><div><b>Frontera tonno all&#x27;olio di semi di girasole 620 g</b><br><small>MD · fino al 15/11</small></div><div class="pr"><s>5,79 €</s> <b>4,49 €</b></div></li></ul><a class="map" href="https://www.google.com/maps/search/?api=1&query=Conad%20Via%20Amendola%20Angolo%20Via%20Cesa%20Snc%20Parete">📍 Conad · Via Amendola Angolo Via Cesa Snc, Parete</a><a class="map" href="https://www.google.com/maps/search/?api=1&query=Spazio%20Conad%20S.P.%20Trentola%20Parete%20Snc%20Trentola%20Ducenta">📍 Spazio Conad · S.P. Trentola Parete Snc, Trentola Ducenta</a><a class="map" href="https://www.google.com/maps/search/?api=1&query=MD%20VIA%20SALVO%20D%27ACQUISTO%20San%20Marcellino">📍 MD · VIA SALVO D&#x27;ACQUISTO, San Marcellino</a><p><small>Prezzi e scadenze dai volantini delle insegne. Rispondi STOP su WhatsApp per non ricevere più avvisi.</small></p></main></body></html>

diff --git a/o/f37b4d23/index.html b/o/f37b4d23/index.html
@@ -6,4 +6,4 @@
 <style>body{margin:0;font-family:-apple-system,system-ui,sans-serif;background:#F4F1EA;color:#1d2a22}main{max-width:560px;margin:auto;padding:16px}img{width:100%;border-radius:14px}
 ul{list-style:none;padding:0}li{display:flex;gap:10px;align-items:center;background:#fff;border-radius:12px;padding:10px 12px;margin:8px 0}.ic{font-size:26px}.th{width:44px;height:44px;object-fit:contain;background:#fff}li div:nth-child(2){flex:1}small{color:#6b746e}.pr{text-align:right;white-space:nowrap}s{color:#8a8f8b;font-size:13px}
 .btn{display:block;text-align:center;background:#1f6b45;color:#fff;font-weight:700;font-size:18px;padding:16px;border-radius:14px;text-decoration:none;margin:18px 0}.map{display:block;color:#1f6b45;margin:6px 0;text-decoration:none}</style></head>
-<body><main><img src="card.jpg" alt=""><a class="btn" href="https://tally.so/r/OQQV7k?f=F008&amp;a=A271,A272,A273">✅ Segna cosa hai comprato</a><ul><li><span class=ic>🍞</span><div><b>Mulino Bianco fette biscottate vari tipi 315 g</b><br><small>Conad City · fino al 15/11</small></div><div class="pr"><b>1,49 €</b></div></li><li><img class=th src=../../img/225a48eae5.jpg><div><b>Regina carta igienica Camomilla maxi 4 rotoli</b><br><small>MD · fino al 15/11</small></div><div class="pr"><s>3,19 €</s> <b>2,59 €</b></div></li><li><span class=ic>🍪</span><div><b>Mulino Bianco Rigoli Biscotti con Miele Millefiori Italiano 400g</b><br><small>Dodecà · prezzo fisso</small></div><div class="pr"><b>1,89 €</b></div></li></ul><a class="map" href="https://www.google.com/maps/search/?api=1&query=Conad%20City%20Corso%20Umberto%20I%2057%20Marano%20di%20Napoli">📍 Conad City · Corso Umberto I 57, Marano di Napoli</a><a class="map" href="https://www.google.com/maps/search/?api=1&query=MD%20C.SO%20ITALIA%2055%20Marano%20di%20Napoli">📍 MD · C.SO ITALIA 55, Marano di Napoli</a><a class="map" href="https://www.google.com/maps/search/?api=1&query=Dodec%C3%A0%20Via%20Giuseppe%20di%20Vittorio%20SNC%20Mugnano%20di%20Napoli">📍 Dodecà · Via Giuseppe di Vittorio SNC, Mugnano di Napoli</a><p><small>Prezzi e scadenze dai volantini delle insegne. Rispondi STOP su WhatsApp per non ricevere più avvisi.</small></p></main></body></html>
+<body><main><img src="card.jpg" alt=""><a class="btn" href="https://tally.so/r/OQQV7k?f=F008&amp;a=A271,A272,A273">✅ Segna cosa hai comprato</a><ul><li><img class=th src=../../img/793da9189b.jpg><div><b>Mulino Bianco fette biscottate vari tipi 315 g</b><br><small>Conad City · fino al 15/11</small></div><div class="pr"><b>1,49 €</b></div></li><li><img class=th src=../../img/225a48eae5.jpg><div><b>Regina carta igienica Camomilla maxi 4 rotoli</b><br><small>MD · fino al 15/11</small></div><div class="pr"><s>3,19 €</s> <b>2,59 €</b></div></li><li><span class=ic>🍪</span><div><b>Mulino Bianco Rigoli Biscotti con Miele Millefiori Italiano 400g</b><br><small>Dodecà · prezzo fisso</small></div><div class="pr"><b>1,89 €</b></div></li></ul><a class="map" href="https://www.google.com/maps/search/?api=1&query=Conad%20City%20Corso%20Umberto%20I%2057%20Marano%20di%20Napoli">📍 Conad City · Corso Umberto I 57, Marano di Napoli</a><a class="map" href="https://www.google.com/maps/search/?api=1&query=MD%20C.SO%20ITALIA%2055%20Marano%20di%20Napoli">📍 MD · C.SO ITALIA 55, Marano di Napoli</a><a class="map" href="https://www.google.com/maps/search/?api=1&query=Dodec%C3%A0%20Via%20Giuseppe%20di%20Vittorio%20SNC%20Mugnano%20di%20Napoli">📍 Dodecà · Via Giuseppe di Vittorio SNC, Mugnano di Napoli</a><p><small>Prezzi e scadenze dai volantini delle insegne. Rispondi STOP su WhatsApp per non ricevere più avvisi.</small></p></main></body></html>

diff --git a/o/0881349c/index.html b/o/0881349c/index.html
@@ -6,4 +6,4 @@
 <style>body{margin:0;font-family:-apple-system,system-ui,sans-serif;background:#F4F1EA;color:#1d2a22}main{max-width:560px;margin:auto;padding:16px}img{width:100%;border-radius:14px}
 ul{list-style:none;padding:0}li{display:flex;gap:10px;align-items:center;background:#fff;border-radius:12px;padding:10px 12px;margin:8px 0}.ic{font-size:26px}.th{width:44px;height:44px;object-fit:contain;background:#fff}li div:nth-child(2){flex:1}small{color:#6b746e}.pr{text-align:right;white-space:nowrap}s{color:#8a8f8b;font-size:13px}
 .btn{display:block;text-align:center;background:#1f6b45;color:#fff;font-weight:700;font-size:18px;padding:16px;border-radius:14px;text-decoration:none;margin:18px 0}.map{display:block;color:#1f6b45;margin:6px 0;text-decoration:none}</style></head>
-<body><main><img src="card.jpg" alt=""><a class="btn" href="https://tally.so/r/OQQV7k?f=F009&amp;a=A274,A275">✅ Segna cosa hai comprato</a><ul><li><img class=th src=../../img/c31a03fc3f.jpg><div><b>Regina carta igienica rotoloni 4 rotoli</b><br><small>Conad · fino al 14/11</small></div><div class="pr"><s>3,75 €</s> <b>2,59 €</b></div></li><li><span class=ic>🪥</span><div><b>Mentadent dentifricio Protect Plus 75 ml</b><br><small>Lidl · scade oggi</small></div><div class="pr"><b>2,29 €</b></div></li></ul><a class="map" href="https://www.google.com/maps/search/?api=1&query=Conad%20Via%20Della%20Repubblica%20122%20Calvizzano">📍 Conad · Via Della Repubblica 122, Calvizzano</a><a class="map" href="https://www.google.com/maps/search/?api=1&query=Lidl%20Via%20Giugliano%20Mugnano%2C%20137%20Villaricca">📍 Lidl · Via Giugliano Mugnano, 137, Villaricca</a><p><small>Prezzi e scadenze dai volantini delle insegne. Rispondi STOP su WhatsApp per non ricevere più avvisi.</small></p></main></body></html>
+<body><main><img src="card.jpg" alt=""><a class="btn" href="https://tally.so/r/OQQV7k?f=F009&amp;a=A274,A275">✅ Segna cosa hai comprato</a><ul><li><img class=th src=../../img/c31a03fc3f.jpg><div><b>Regina carta igienica rotoloni 4 rotoli</b><br><small>Conad · fino al 14/11</small></div><div class="pr"><s>3,75 €</s> <b>2,59 €</b></div></li><li><img class=th src=../../img/8b94a1fede.jpg><div><b>Mentadent dentifricio Protect Plus 75 ml</b><br><small>Lidl · scade oggi</small></div><div class="pr"><b>2,29 €</b></div></li></ul><a class="map" href="https://www.google.com/maps/search/?api=1&query=Conad%20Via%20Della%20Repubblica%20122%20Calvizzano">📍 Conad · Via Della Repubblica 122, Calvizzano</a><a class="map" href="https://www.google.com/maps/search/?api=1&query=Lidl%20Via%20Giugliano%20Mugnano%2C%20137%20Villaricca">📍 Lidl · Via Giugliano Mugnano, 137, Villaricca</a><p><small>Prezzi e scadenze dai volantini delle insegne. Rispondi STOP su WhatsApp per non ricevere più avvisi.</small></p></main></body></html>

diff --git a/o/04282575/index.html b/o/04282575/index.html
@@ -6,4 +6,4 @@
 <style>body{margin:0;font-family:-apple-system,system-ui,sans-serif;background:#F4F1EA;color:#1d2a22}main{max-width:560px;margin:auto;padding:16px}img{width:100%;border-radius:14px}
 ul{list-style:none;padding:0}li{display:flex;gap:10px;align-items:center;background:#fff;border-radius:12px;padding:10px 12px;margin:8px 0}.ic{font-size:26px}.th{width:44px;height:44px;object-fit:contain;background:#fff}li div:nth-child(2){flex:1}small{color:#6b746e}.pr{text-align:right;white-space:nowrap}s{color:#8a8f8b;font-size:13px}
 .btn{display:block;text-align:center;background:#1f6b45;color:#fff;font-weight:700;font-size:18px;padding:16px;border-radius:14px;text-decoration:none;margin:18px 0}.map{display:block;color:#1f6b45;margin:6px 0;text-decoration:none}</style></head>
-<body><main><img src="card.jpg" alt=""><a class="btn" href="https://tally.so/r/OQQV7k?f=F002&amp;a=A258">✅ Segna cosa hai comprato</a><ul><li><span class=ic>🐟</span><div><b>Rio Mare tonno all&#x27;olio di oliva 3x80 g + 1 lattina gratis</b><br><small>Conad City · fino al 15/11</small></div><div class="pr"><b>4,79 €</b></div></li></ul><a class="map" href="https://www.google.com/maps/search/?api=1&query=Conad%20City%20Via%20Publio%20Virgilio%20Marone%208/10%20Poggiomarino">📍 Conad City · Via Publio Virgilio Marone 8/10, Poggiomarino</a><p><small>Prezzi e scadenze dai volantini delle insegne. Rispondi STOP su WhatsApp per non ricevere più avvisi.</small></p></main></body></html>
+<body><main><img src="card.jpg" alt=""><a class="btn" href="https://tally.so/r/OQQV7k?f=F002&amp;a=A258">✅ Segna cosa hai comprato</a><ul><li><img class=th src=../../img/3bcf40875e.jpg><div><b>Rio Mare tonno all&#x27;olio di oliva 3x80 g + 1 lattina gratis</b><br><small>Conad City · fino al 15/11</small></div><div class="pr"><b>4,79 €</b></div></li></ul><a class="map" href="https://www.google.com/maps/search/?api=1&query=Conad%20City%20Via%20Publio%20Virgilio%20Marone%208/10%20Poggiomarino">📍 Conad City · Via Publio Virgilio Marone 8/10, Poggiomarino</a><p><small>Prezzi e scadenze dai volantini delle insegne. Rispondi STOP su WhatsApp per non ricevere più avvisi.</small></p></main></body></html>
